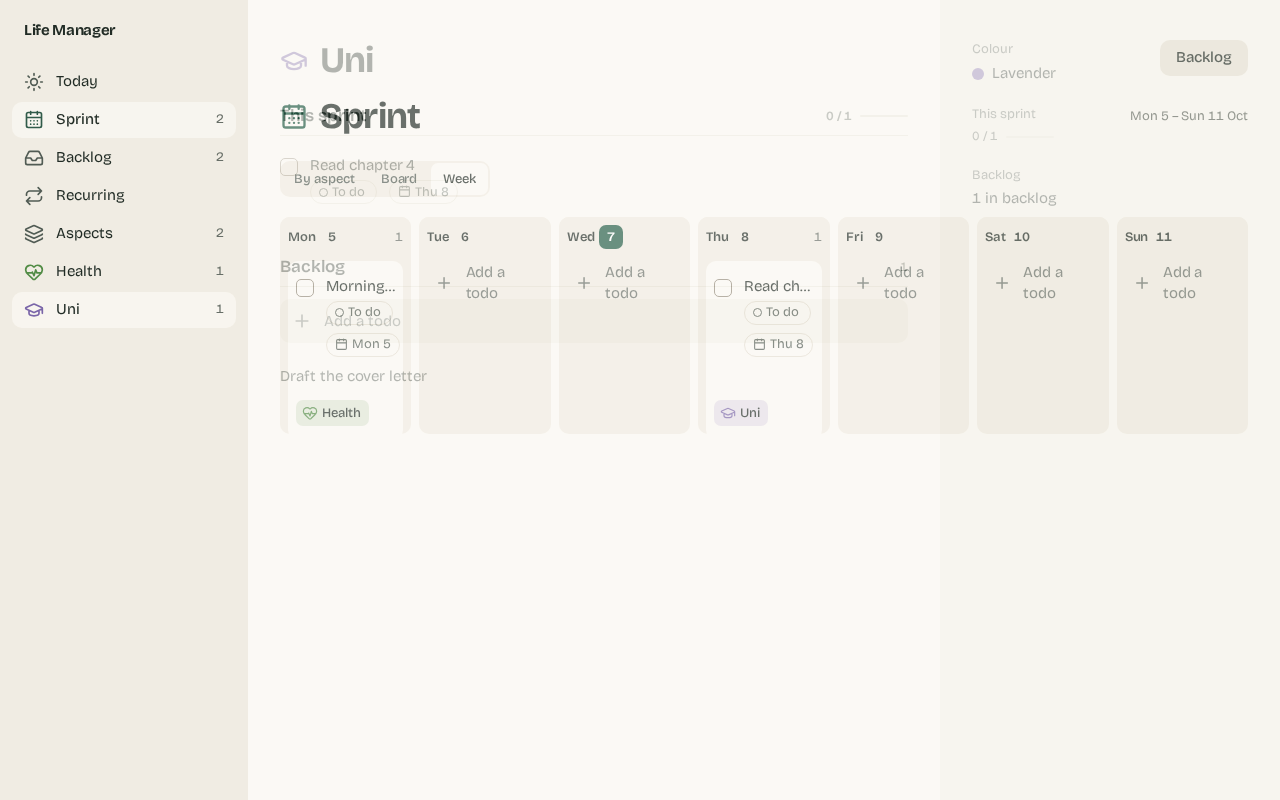
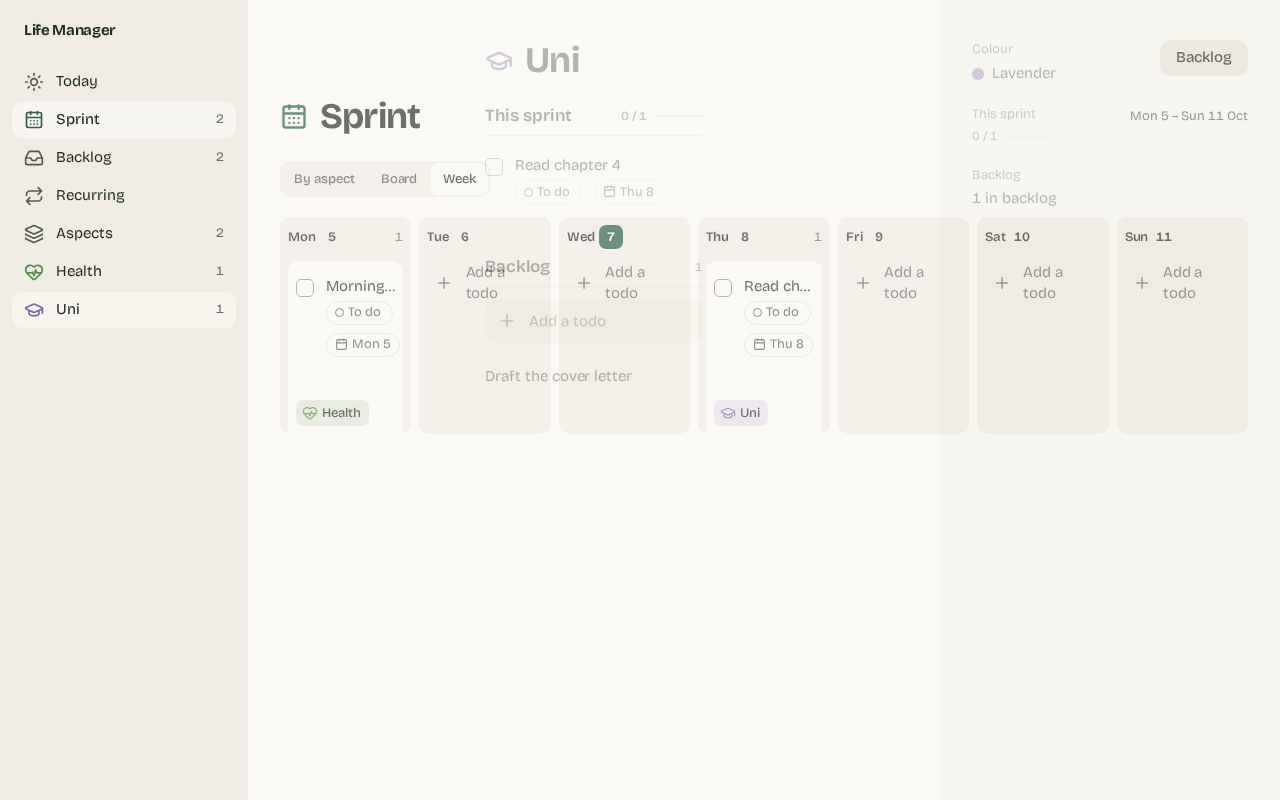
flow(sprint-management): centre every main screen's column

diff --git a/e2e/layout.test.ts b/e2e/layout.test.ts
@@ -9,7 +9,7 @@ test.afterAll(async ({ request }) => {
 	await setClock(request, null);
 });
 
-async function expectCentred(page: Page, name: string) {
+async function expectCentred(page: Page, name: string, tolerance = 8) {
 	await expect(page.getByRole('heading', { level: 1 })).toBeVisible();
 	const { column, free } = await page.evaluate(() => {
 		const main = document.querySelector('main')!.getBoundingClientRect();
@@ -17,29 +17,69 @@ async function expectCentred(page: Page, name: string) {
 		const width = document.documentElement.clientWidth;
 		return { column: main.left + main.width / 2, free: sidebar.right + (width - sidebar.right) / 2 };
 	});
-	expect(Math.abs(column - free), `${name} column is off-centre`).toBeLessThanOrEqual(8);
+	expect(Math.abs(column - free), `${name} column is off-centre`).toBeLessThanOrEqual(tolerance);
 }
 
-test('Scenario: Screens without a rail centre their column', async ({ page, request }) => {
-	await page.setViewportSize({ width: 1600, height: 900 });
-	await reset(request);
-	await page.goto('/welcome');
-	await expectCentred(page, 'welcome');
-
-	await setClock(request, SUNDAY);
-	await seed(request, {
+const seedSunday = (request: Parameters<typeof seed>[0]) =>
+	seed(request, {
 		aspects: [{ name: 'Health' }],
 		sprint: { state: 'active', weekStart: WEEK },
 		rules: [{ title: 'Gym', weekdays: [1, 4] }],
 		todos: [{ title: 'Morning run', inSprint: true, day: '2026-10-11' }, { title: 'Read chapter 4' }]
 	});
-	for (const [path, name] of [
-		['/backlog', 'backlog'],
-		['/sprint/review', 'review'],
-		['/recurring', 'recurring']
-	]) {
+
+test('Scenario: Screens without a rail centre their column', async ({ page, request }) => {
+	for (const width of [1100, 1600]) {
+		await page.setViewportSize({ width, height: 900 });
+		await reset(request);
+		await page.goto('/welcome');
+		await expectCentred(page, `welcome at ${width}`);
+
+		await setClock(request, SUNDAY);
+		await seedSunday(request);
+		for (const [path, name] of [
+			['/backlog', 'backlog'],
+			['/sprint/review', 'review'],
+			['/recurring', 'recurring'],
+			['/aspects', 'aspects']
+		]) {
+			await page.goto(path);
+			await expect(page).toHaveURL(new RegExp(`${path}$`));
+			await expectCentred(page, `${name} at ${width}`);
+		}
+	}
+});
+
+test('Scenario: Screens with a rail centre their column', async ({ page, request }) => {
+	await reset(request);
+	await setClock(request, SUNDAY);
+	const { aspects } = await seedSunday(request);
+	const screens = [
+		['/', 'today'],
+		['/sprint?view=aspect', 'sprint by aspect'],
+		[`/aspects/${aspects[0]}`, 'aspect page']
+	];
+
+	// Docked rail: the column sits in the middle of the space between sidebar and rail.
+	await page.setViewportSize({ width: 1600, height: 900 });
+	for (const [path, name] of screens) {
 		await page.goto(path);
-		await expect(page).toHaveURL(new RegExp(`${path}$`));
-		await expectCentred(page, name);
+		await expect(page.getByRole('heading', { level: 1 })).toBeVisible();
+		const rail = page.getByTestId('context-rail');
+		await expect(rail).toBeVisible();
+		const { column, free } = await rail.evaluate((el) => {
+			const content = el.previousElementSibling!.getBoundingClientRect();
+			const sidebar = document.querySelector('main')!.previousElementSibling!.getBoundingClientRect();
+			const left = el.getBoundingClientRect().left;
+			return { column: content.left + content.width / 2, free: (sidebar.right + left) / 2 };
+		});
+		expect(Math.abs(column - free), `${name} column is off-centre`).toBeLessThanOrEqual(2);
+	}
+
+	// Overlay rail: the column is centred right of the sidebar like a screen without a rail.
+	await page.setViewportSize({ width: 1100, height: 900 });
+	for (const [path, name] of screens) {
+		await page.goto(path);
+		await expectCentred(page, `${name} at 1100`, 2);
 	}
 });

diff --git a/src/routes/+layout.svelte b/src/routes/+layout.svelte
@@ -52,6 +52,7 @@
 	.page {
 		width: 100%;
 		max-width: calc(var(--content-max) + 2 * var(--gutter));
+		margin-inline: auto;
 		padding: var(--space-5) var(--gutter) var(--space-9);
 	}
 
@@ -71,18 +72,11 @@
 		}
 	}
 
-	/* Wide screens: pages with a context rail lay out their own columns; the rest centre in the free space. */
+	/* Wide screens: pages with a context rail lay out their own columns and centre the content between
+	   sidebar and rail; the rest keep the centred column. */
 	@media (min-width: 1280px) {
-		.page {
-			max-width: none;
-		}
-
-		:global(.page:not(:has(.rail-layout))) {
-			max-width: calc(var(--content-max) + 2 * var(--gutter));
-			margin-inline: auto;
-		}
-
 		:global(.page:has(.rail-layout)) {
+			max-width: none;
 			padding: 0;
 		}
 	}

diff --git a/src/lib/components/shell/RailLayout.svelte b/src/lib/components/shell/RailLayout.svelte
@@ -92,7 +92,8 @@
 		}
 	}
 
-	/* Wide desktop: the rail docks at the right edge; the content keeps the list measure, left-aligned.
+	/* Wide desktop: the rail docks at the right edge; the content keeps the list measure, centred between
+	   sidebar and rail.
 	   An overlay layout (Week) keeps the toggle and panel, so the content gets the full width. */
 	@media (min-width: 1280px) {
 		.rail-layout:not(.overlay) {
@@ -103,6 +104,7 @@
 
 		.content {
 			max-width: calc(var(--content-max) + 2 * var(--gutter));
+			margin-inline: auto;
 			padding: var(--space-8) var(--gutter) var(--space-9);
 		}
 

diff --git a/e2e/sprint-rail.test.ts b/e2e/sprint-rail.test.ts
@@ -141,7 +141,8 @@ test('Scenario: Sprint at 1280 shows a context rail', async ({ page, request }) 
 	const box = await expectDockedRail();
 	const list = (await sprintList(page).boundingBox())!;
 	expect(list.width).toBeLessThanOrEqual(720);
-	expect(list.x - (await sidebarRight())).toBeLessThanOrEqual(64);
+	const free = ((await sidebarRight()) + box.x) / 2;
+	expect(Math.abs(list.x + list.width / 2 - free)).toBeLessThanOrEqual(2);
 	expect(list.x + list.width).toBeLessThanOrEqual(box.x);
 
 	// The board's columns widen past the list measure (wide board), but sit between sidebar and rail.

diff --git a/openspec/changes/sprint-management/specs/navigation/spec.md b/openspec/changes/sprint-management/specs/navigation/spec.md
@@ -1,17 +1,18 @@
 ## ADDED Requirements
 
 ### Requirement: Wide desktop layout with context rail
-At ≥1280 px screens SHALL use the width: sidebar | content (lists max 720 px, left-aligned) | context
-rail (~320–360 px, `--paper-sunk`). Rails per screen: Sprint → backlog rail, docked in By aspect and Board
+At ≥1280 px screens SHALL use the width: sidebar | content (lists max 720 px, centred in the space between
+sidebar and rail) | context rail (~320–360 px, `--paper-sunk`). Rails per screen: Sprint → backlog rail, docked in By aspect and Board
 and a toggle overlay in Week even at ≥1280 px (with Unscheduled; see sprint-views "Wide board and week");
 Today → this sprint's progress per aspect; aspect page → the aspect's details (colour, counts). Screens
-without a rail (Backlog, Review, Recurring, Welcome) centre their column in the free space. Between 768
-and 1279 px the rail collapses into a toggle button that opens it as an overlay panel; below 768 px the
-phone layout is unchanged. No screen scrolls horizontally at any width. (S9)
+without a rail (Backlog, Plan, Review, Recurring, Aspects, Welcome) centre their column in the free space. Between 768
+and 1279 px the rail collapses into a toggle button that opens it as an overlay panel and every screen's
+column is centred in the space right of the sidebar; below 768 px the phone layout is unchanged. Board and
+Week fill the content width instead (see sprint-views "Wide board and week"). No screen scrolls horizontally at any width. (S9)
 
 #### Scenario: Sprint at 1280 shows a context rail
 - **WHEN** Rue opens `/sprint` at 1280 px during a running sprint, in the By aspect view and in the Board view
-- **THEN** the context rail is docked at the right edge with the `--paper-sunk` background, and the sprint list is left-aligned next to the sidebar and at most 720 px wide
+- **THEN** the context rail is docked at the right edge with the `--paper-sunk` background, in By aspect the sprint list is at most 720 px wide and centred within 2 px in the space between sidebar and rail, and in Board the columns fill that space
 - **proof:** e2e
 
 #### Scenario: Today at 1280 shows sprint progress per aspect
@@ -25,8 +26,13 @@ phone layout is unchanged. No screen scrolls horizontally at any width. (S9)
 - **proof:** e2e
 
 #### Scenario: Screens without a rail centre their column
-- **WHEN** Backlog, Review, Recurring and Welcome are opened at 1600 px
+- **WHEN** Backlog, Review, Recurring, Aspects and Welcome are opened at 1100 px and at 1600 px
 - **THEN** on each the content column's centre lies within 8 px of the centre of the area right of the sidebar
+- **proof:** e2e
+
+#### Scenario: Screens with a rail centre their column
+- **WHEN** Today, Sprint (By aspect) and an aspect page are opened during a running sprint at 1600 px and at 1100 px
+- **THEN** at 1600 px each content column's centre lies within 2 px of the centre of the space between the sidebar and the docked rail, and at 1100 px (overlay rail) within 2 px of the centre of the area right of the sidebar
 - **proof:** e2e
 
 #### Scenario: Rail becomes an overlay toggle below 1280

diff --git a/design/brief.md b/design/brief.md
@@ -226,7 +226,7 @@ Lifesum calendar with green-ringed today, https://mobbin.com/screens/3a530be6-95
 - **Phone (<768 px)** is unchanged: one column, no rail. A screen that needs the rail's
   content brings its own way to it (Sprint: the "Manage" sheet).
 - **Wide desktop (≥1280 px): sidebar | content | context rail.** Lists keep the 720 px
-  measure, left-aligned next to the sidebar; the context rail (`--rail-width`, 340 px) docks
+  measure, centred in the space between the sidebar and the rail; the context rail (`--rail-width`, 340 px) docks
   at the right edge on `--paper-sunk`, the same stone as the sidebar, so the content sits
   between two quiet surfaces. Each rail answers the screen's question: Sprint → the backlog
   rail plus Unscheduled; Today → this sprint's progress per aspect ("done / total" with a
@@ -261,9 +261,12 @@ Lifesum calendar with green-ringed today, https://mobbin.com/screens/3a530be6-95
   than a third layout for a band the scope left open.
   — Jira sidebar open/close flow, https://mobbin.com/flows/03bcd9ae-4012-41dc-aac6-98673a6fe3d4
   (screen d4a9c031-0cba-41a8-b0f0-63499d51119c)
-- **Screens without a rail centre their column.** Backlog, Review, Recurring and Welcome
-  keep the 720 px column and centre it in the space right of the sidebar, so no wide screen
-  has an empty right third. No screen scrolls horizontally at any width.
+- **Every main screen centres its column.** Screens with a docked rail (Today, Sprint By
+  aspect, an aspect page) centre the 720 px column between sidebar and rail; screens without
+  one (Backlog, Plan, Review, Recurring, Aspects, Welcome) and every screen at 768–1279 px
+  centre it in the space right of the sidebar, so no screen has an empty right third and
+  switching tabs never shifts the column sideways (Rue at Gate 2). Board and Week are the
+  exception: they fill the content width. No screen scrolls horizontally at any width.
 
 ## Hand-off notes for feature units
 

diff --git a/openspec/changes/sprint-management/design.md b/openspec/changes/sprint-management/design.md
@@ -31,8 +31,10 @@ From `scope.md` (Rue's decisions, unchanged):
 
 Technical (planner):
 - **Rail is a per-page component, not a layout slot.** `RailLayout` (content + `rail` snippet) is rendered
-  by the pages that have a rail; the root layout only stops capping `.page` at ≥1280 and centres a 720 px
-  column for pages without one (`.page:has(.rail-layout)` opts out). Alternative — a layout-level slot fed
+  by the pages that have a rail; the root layout centres a 720 px `.page` column on every screen at every
+  width, and at ≥1280 `.page:has(.rail-layout)` opts out so `RailLayout` centres its content in the grid
+  track between sidebar and rail (Rue at Gate 2: every main screen centres its column; wide Board/Week
+  fill the track instead). Alternative — a layout-level slot fed
   through a store or page data — needs cross-route plumbing for three screens.
 - **`RailLayout` bands:** ≥1280 docked rail; 768–1279 toggle + overlay panel (widened from 1024–1279 at
   Gate 1: the overlay is the smaller choice for the tablet band than a third layout); <768 no rail at all —
